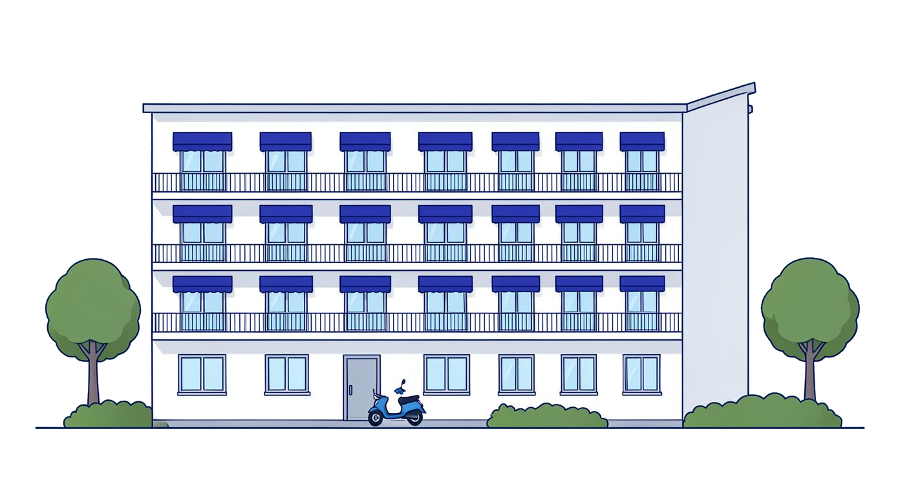
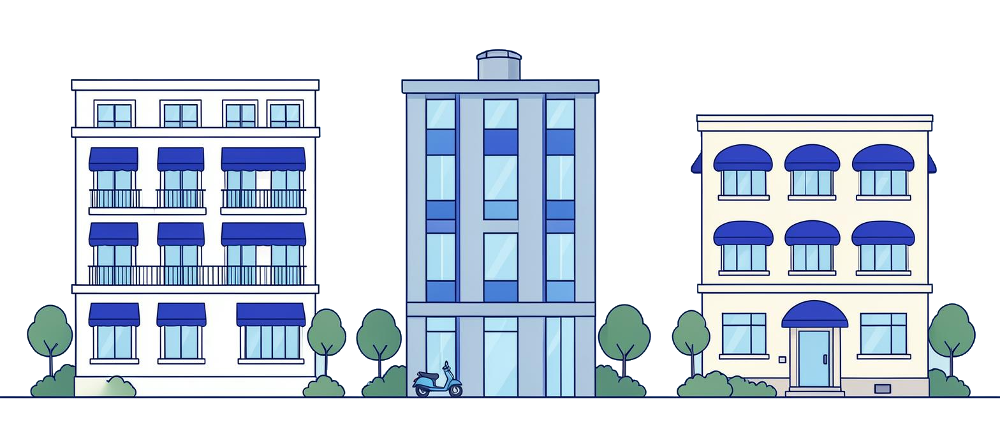
Show three different apartment blocks in the login illustration
Replaces the single long building with a row of three distinct blocks and widens the hero slot so all three fit without cropping.

🤖 Generated with Codebuff

diff --git a/assets/styles.css b/assets/styles.css
@@ -2750,7 +2750,7 @@ body[data-page="login"] {
 }
 .lv-hero img {
   display: block;
-  width: min(380px, 88%);
+  width: min(420px, 94%);
   height: 180px;
   object-fit: cover;
   object-position: center 56%;
@@ -2774,7 +2774,7 @@ body[data-page="login"] {
   .lv-features { gap: 8px; }
   .lv-feature { padding: 9px 12px; gap: 8px; }
   .lv-feature h3 { font-size: 12.5px; }
-  .lv-hero img { width: min(270px, 74%); height: 132px; }
+  .lv-hero img { width: min(300px, 84%); height: 129px; }
   .lv-logo img { width: min(180px, 46%); }
 }
 
